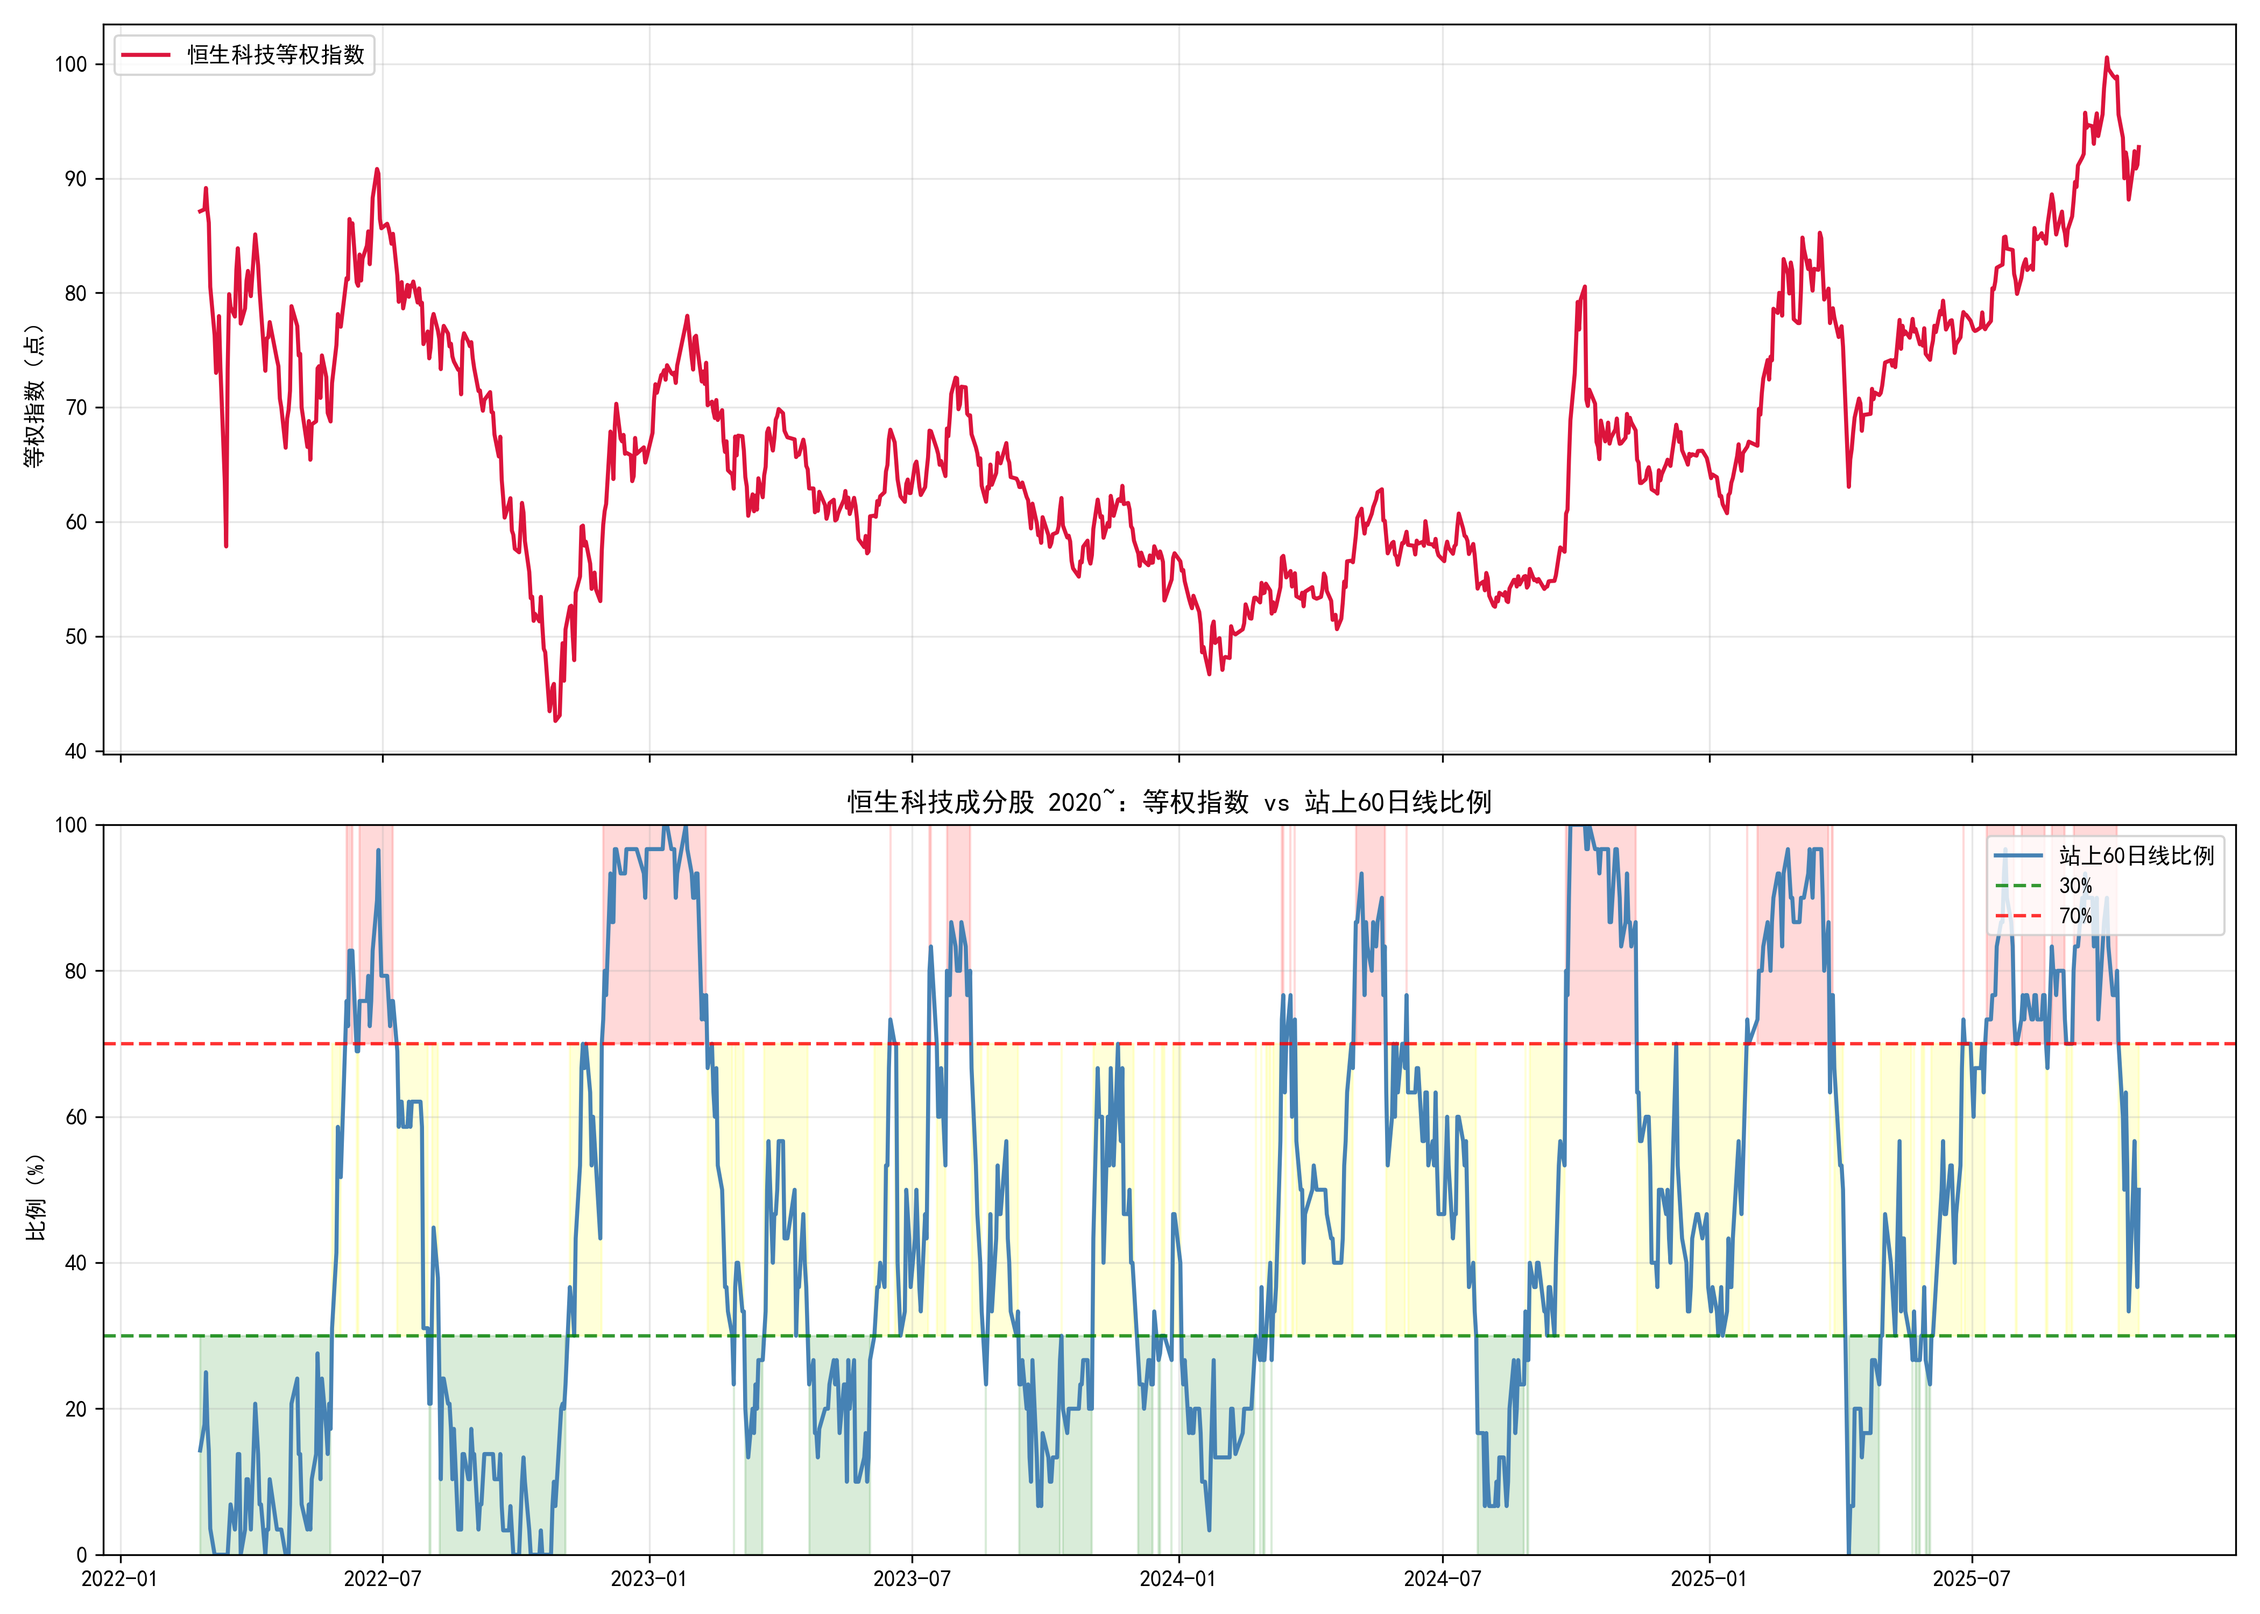
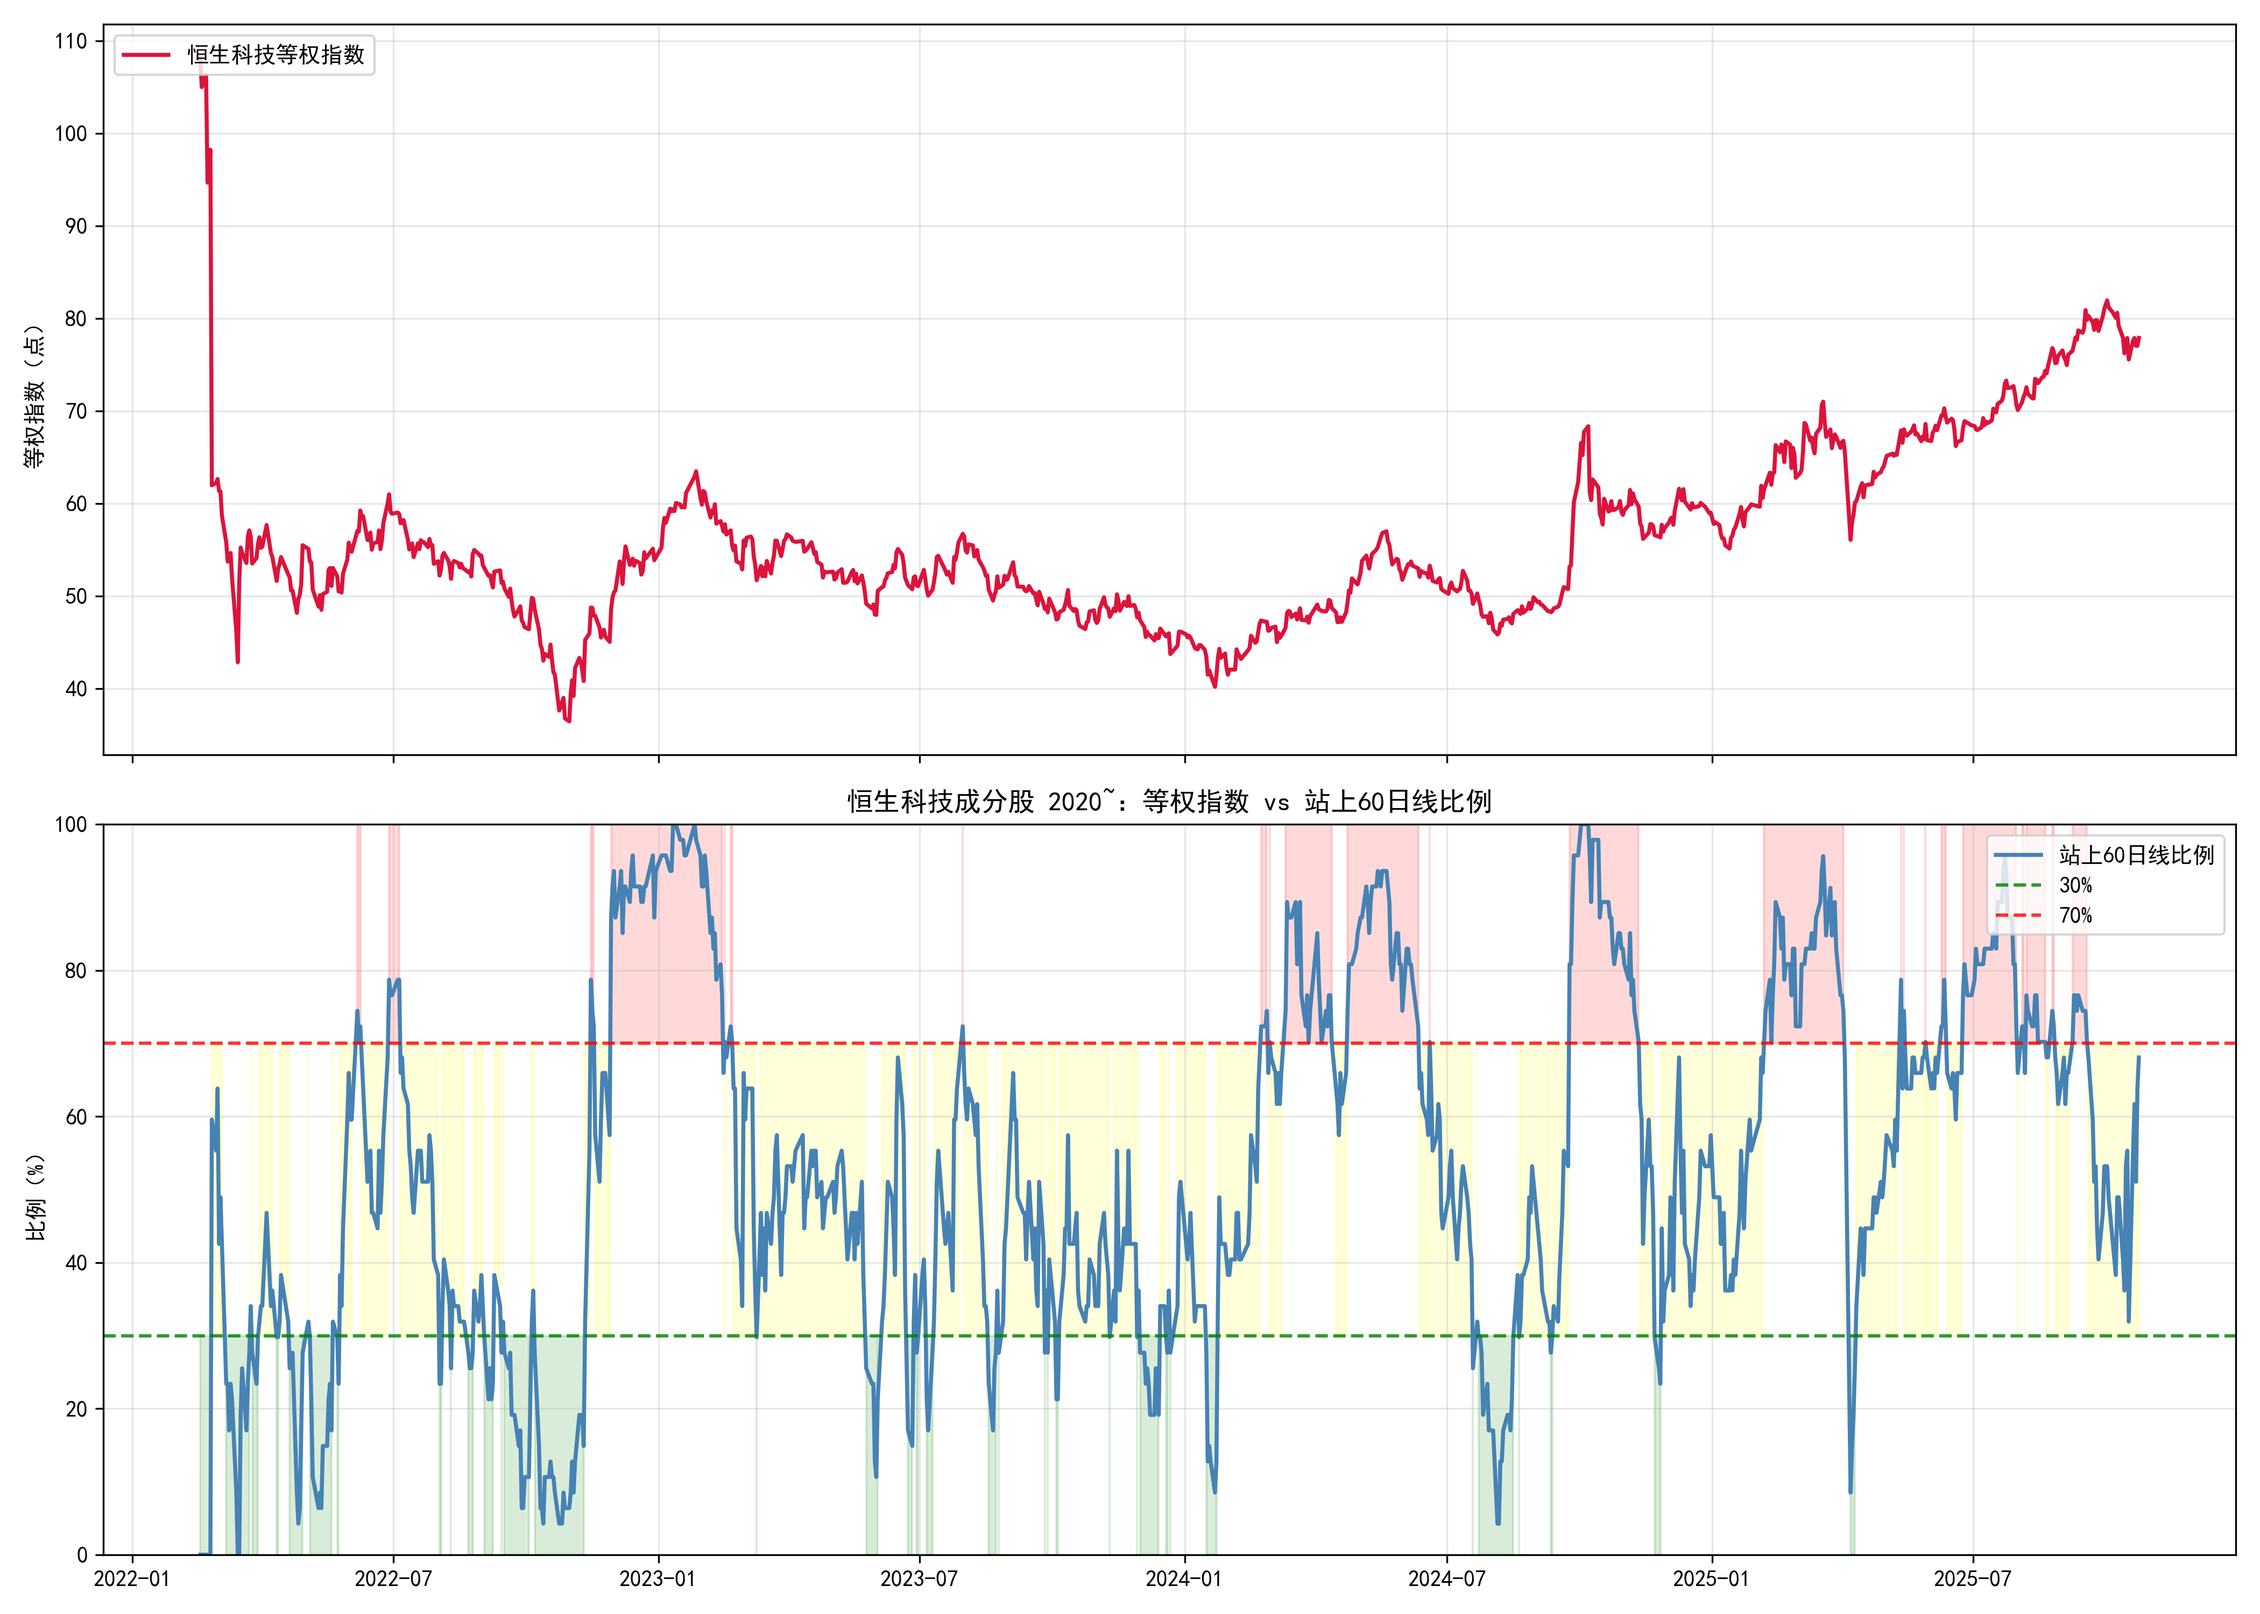
添加国企指数

diff --git a/HSChinaGuoqi.py b/HSChinaGuoqi.py
@@ -1,0 +1,248 @@
+# -*- coding: utf-8 -*-
+
+import akshare as ak
+import pandas as pd
+import numpy as np
+import matplotlib.pyplot as plt
+from datetime import datetime
+import mplcursors
+import matplotlib.dates as mdates
+from matplotlib.dates import num2date
+import warnings, os, time, concurrent.futures, traceback
+
+warnings.filterwarnings('ignore')
+plt.rcParams['font.sans-serif'] = ['SimHei', 'Microsoft YaHei']
+plt.rcParams['axes.unicode_minus'] = False
+
+# 🟡==================== 全局变量（一行改） ====================🟡
+START_YEAR = 2020            # <--- 只改这里即可
+START_DATE = f"{START_YEAR}-01-01"
+# 🟡============================================================🟡
+STOCKS = {
+    # 金融（银行、保险、券商）
+    "建设银行": "00939",
+    "工商银行": "01398",
+    "中国银行": "03988",
+    "农业银行": "01288",
+    "招商银行": "03968",
+    "交通银行": "03328",
+    "邮储银行": "01658",
+    "中国平安": "02318",
+    "中国人寿": "02628",
+    "中国财险": "02328",
+    "中信股份": "00267",
+
+    # 互联网与科技平台
+    "腾讯控股": "00700",
+    "阿里巴巴-SW": "09988",
+    "美团-W": "03690",
+    "小米集团-W": "01810",
+    "京东集团-SW": "09618",
+    "百度集团-SW": "09888",
+    "网易-S": "09999",
+    "快手-W": "01024",
+    "联想集团": "00992",
+
+    # 能源与资源
+    "中国海洋石油": "00883",
+    "中国石油股份": "00857",
+    "中国石油化工股份": "00386",
+    "中国神华": "01088",
+    "紫金矿业": "02899",
+
+    # 消费与制造
+    "比亚迪股份": "01211",
+    "吉利汽车": "00175",
+    "安踏体育": "02020",
+    "蒙牛乳业": "02319",
+    "华润啤酒": "00291",
+    "农夫山泉": "09633",
+    "海底捞": "06862",
+    "泡泡玛特": "09992",  # 2025年9月新纳入[5](@ref)[7](@ref)
+    "舜宇光学科技": "02382",
+    "申洲国际": "02313",
+
+    # 地产与基建
+    "中国海外发展": "00688",
+    "华润置地": "01109",
+    "新奥能源": "02688",
+
+    # 电信与科技服务
+    "中国移动": "00941",
+    "中国联通": "00762",
+    "中芯国际": "00981",
+    "石药集团": "01093",
+    "海尔智家": "06690",
+    "中通快递-W": "02057",
+    "京东健康": "06618",
+    "新东方-S": "09901",
+    "携程集团-S": "09961"
+}
+
+ANALYSIS_DAYS = 900
+MAX_THREADS   = 4
+BUY_THRESHOLD = 30
+SELL_THRESHOLD = 70
+CACHE_DIR = rf"D:\hstech_cache_{START_YEAR}"   # 🟡 按年份隔离缓存
+os.makedirs(CACHE_DIR, exist_ok=True)
+
+# --------------------------------------------------
+# ---------- 1. fetch_one 返回前 ----------
+# -------------- 1. fetch_one 改成“日期驱动回补” --------------
+def fetch_one(code: str, days: int):
+    cache = os.path.join(CACHE_DIR, f"{code}.pkl")
+    hit_cache = False
+    df = None
+
+    # 读缓存
+    if os.path.exists(cache):
+        try:
+            df = pd.read_pickle(cache)
+        except Exception:
+            df = None
+
+    # 要不要补新数据
+    last_cached = df.index[-1] if df is not None and len(df) else None
+    need_update = (last_cached is None or
+                   last_cached.date() < pd.Timestamp("today").date())
+
+    # 缓存够长且无需更新 → 直接返回
+    if df is not None and len(df) >= days + 60 and not need_update:
+        hit_cache = True
+        return df.iloc[-days:], hit_cache
+
+    # 需要补的数据区间
+    start_date_needed = (last_cached + pd.Timedelta(days=1)).strftime(r"%Y-%m-%d") \
+                        if last_cached else START_DATE
+    end = pd.Timestamp("today").strftime(r"%Y-%m-%d")
+    new_df = None
+
+    # 1. 东财
+    try:
+        time.sleep(np.random.uniform(0.8, 1.5))
+        new_df = ak.stock_hk_hist(symbol=code, period="daily",
+                                  start_date=start_date_needed,
+                                  end_date=end, adjust="qfq")
+        if new_df is not None and not new_df.empty:
+            print(f"[东财] {code} 新数据 {len(new_df)} 根")
+    except Exception as e:
+        print(f"[东财] {code} 失败：{str(e)[:60]}")
+
+    # 2. 新浪降级
+    if (new_df is None or new_df.empty) and need_update:
+        try:
+            time.sleep(np.random.uniform(0.8, 1.5))
+            new_df = ak.stock_hk_daily(symbol=code, adjust="qfq")
+            if new_df is not None and not new_df.empty:
+                new_df["date"] = pd.to_datetime(new_df["date"])
+                new_df = new_df[new_df["date"] >= start_date_needed]
+                print(f"[新浪] {code} 新数据 {len(new_df)} 根")
+        except Exception as e:
+            print(f"[新浪] {code} 失败：{str(e)[:60]}")
+
+    # 合并/整理
+    if new_df is not None and not new_df.empty:
+        if "日期" in new_df.columns:
+            new_df = new_df.rename(columns={"日期": "date", "收盘": "close"})
+        elif "date" not in new_df.columns:
+            new_df = new_df.reset_index().rename(columns={"index": "date"})
+        if "close" not in new_df.columns:
+            new_df = new_df.rename(columns={"收盘": "close"})
+
+        new_df = new_df[["date", "close"]].copy()
+        new_df["date"] = pd.to_datetime(new_df["date"])
+        new_df = new_df.set_index("date").sort_index()
+
+        df = new_df if df is None else pd.concat([df, new_new]).loc[~pd.concat([df, new_df]).index.duplicated()]
+
+    if df is None or len(df) < 60:
+        return None, False
+
+    df["ma60"] = df["close"].rolling(60).mean()
+    df["above"] = df["close"] > df["ma60"]
+    df.to_pickle(cache)
+    return df.iloc[-days:], hit_cache
+# ------------------ 2. load_all 解包返回值 ------------------
+def load_all(stocks: dict, days: int):
+    codes = list(stocks.values())
+    with concurrent.futures.ThreadPoolExecutor(MAX_THREADS) as pool:
+        fut2code = {pool.submit(fetch_one, c, days): c for c in codes}
+        data = {}
+        for f in concurrent.futures.as_completed(fut2code):
+            c, (df, hit) = fut2code[f], f.result()      # ⬅ 解包 hit
+            if df is not None:
+                data[c] = df
+                print(f"{c}  {'[缓存]' if hit else '[新获取]'}")
+        print(f"本次有效股票 {len(data)}/{len(codes)}")
+        return data
+# --------------------------------------------------
+# 计算比例 & 等权指数
+# --------------------------------------------------
+# ---------- 2. calc_ratio_and_eqindex 里 ----------
+def calc_ratio_and_eqindex(stock_data: dict):
+    # ⬅ 这里千万别写成 df.index()
+    all_dates = sorted({d for df in stock_data.values() for d in df.index})
+    print('最早日期:', all_dates[0], '  最晚日期:', all_dates[-1])
+    ratio, eq_idx = [], []
+    for day in all_dates:
+        abv, closes = 0, []
+        for df in stock_data.values():
+            if day in df.index:
+                closes.append(df.loc[day, 'close'])
+                abv += df.loc[day, 'above']
+        if closes:               # 至少有一只股票有数据
+            ratio.append(abv / len(closes))
+            eq_idx.append(np.mean(closes))
+        else:
+            ratio.append(np.nan)
+            eq_idx.append(np.nan)
+
+    # 返回两条 Series，索引都是 DatetimeIndex
+    dt_idx = pd.to_datetime(all_dates)
+    return (pd.Series(ratio, index=dt_idx, name='above_ratio'),
+            pd.Series(eq_idx, index=dt_idx, name='eq_price'))
+# 画图（交互 + PNG）
+# --------------------------------------------------
+def plot_result(ratio: pd.Series, eq: pd.Series):
+    fig, (ax1, ax2) = plt.subplots(2, 1, figsize=(14, 10), sharex=True)
+
+    # 1. 等权指数
+    l1, = ax1.plot(eq.index, eq, label="恒生国企等权指数", color="crimson", lw=1.8)
+    ax1.set_ylabel("等权指数（点）"); ax1.grid(alpha=0.3); ax1.legend(loc="upper left")
+
+    # 2. 比例
+    l2, = ax2.plot(ratio.index, ratio * 100, label="站上60日线比例", color="steelblue", lw=1.8)
+    ax2.axhline(BUY_THRESHOLD, ls="--", color="green", alpha=0.8, label=f"{BUY_THRESHOLD}%")
+    ax2.axhline(SELL_THRESHOLD, ls="--", color="red", alpha=0.8, label=f"{SELL_THRESHOLD}%")
+    ax2.set_ylabel("比例（%）"); ax2.set_ylim(0, 100); ax2.grid(alpha=0.3); ax2.legend(loc="upper right")
+
+    # 彩色区间
+    ax2.fill_between(ratio.index, 0, BUY_THRESHOLD,
+                     where=ratio * 100 < BUY_THRESHOLD, color="green", alpha=0.15)
+    ax2.fill_between(ratio.index, BUY_THRESHOLD, SELL_THRESHOLD,
+                     where=(ratio * 100 >= BUY_THRESHOLD) & (ratio * 100 <= SELL_THRESHOLD),
+                     color="yellow", alpha=0.15)
+    ax2.fill_between(ratio.index, SELL_THRESHOLD, 100,
+                     where=ratio * 100 > SELL_THRESHOLD, color="red", alpha=0.15)
+
+    # 交互光标
+    for line in (l1, l2):
+        mplcursors.cursor(line, hover=True).connect(
+            "add", lambda sel, src=line: sel.annotation.set_text(
+                f"{num2date(sel.target[0]).strftime('%Y-%m-%d')}\n{sel.target[1]:.2f}"))
+
+    plt.title(f"恒生国企成分股 {START_YEAR}~：等权指数 vs 站上60日线比例")
+    png = f"HSTech_{START_YEAR}_{datetime.today():%Y%m%d}.png"
+    plt.tight_layout(); plt.savefig(png, dpi=300); print("已保存", png); plt.show()
+
+# --------------------------------------------------
+# 主流程
+# --------------------------------------------------
+if __name__ == "__main__":
+    print(f"开始拉取 {START_YEAR} 年以来港股恒生国企成分股数据...")
+    data = load_all(STOCKS, ANALYSIS_DAYS)
+    if len(data) < 3:
+        print("有效股票不足，退出"); exit()
+    ratio, eq = calc_ratio_and_eqindex(data)
+    print("最新比例 {:.1f}%".format(ratio.iloc[-1] * 100))
+    plot_result(ratio, eq)
